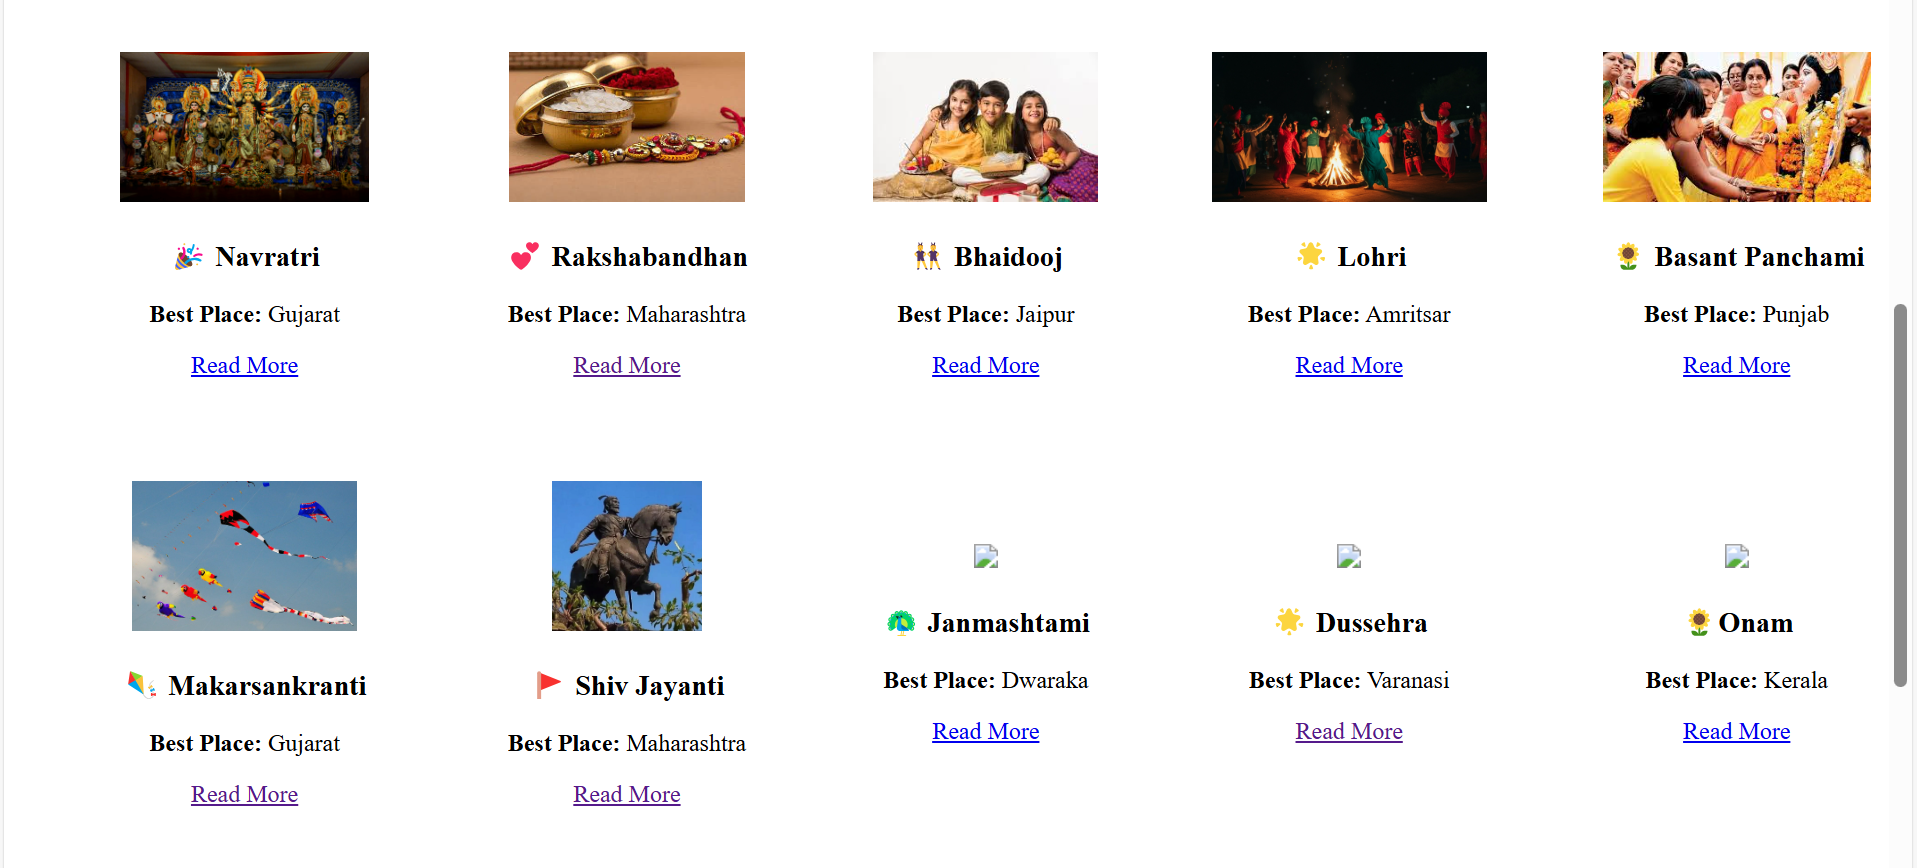
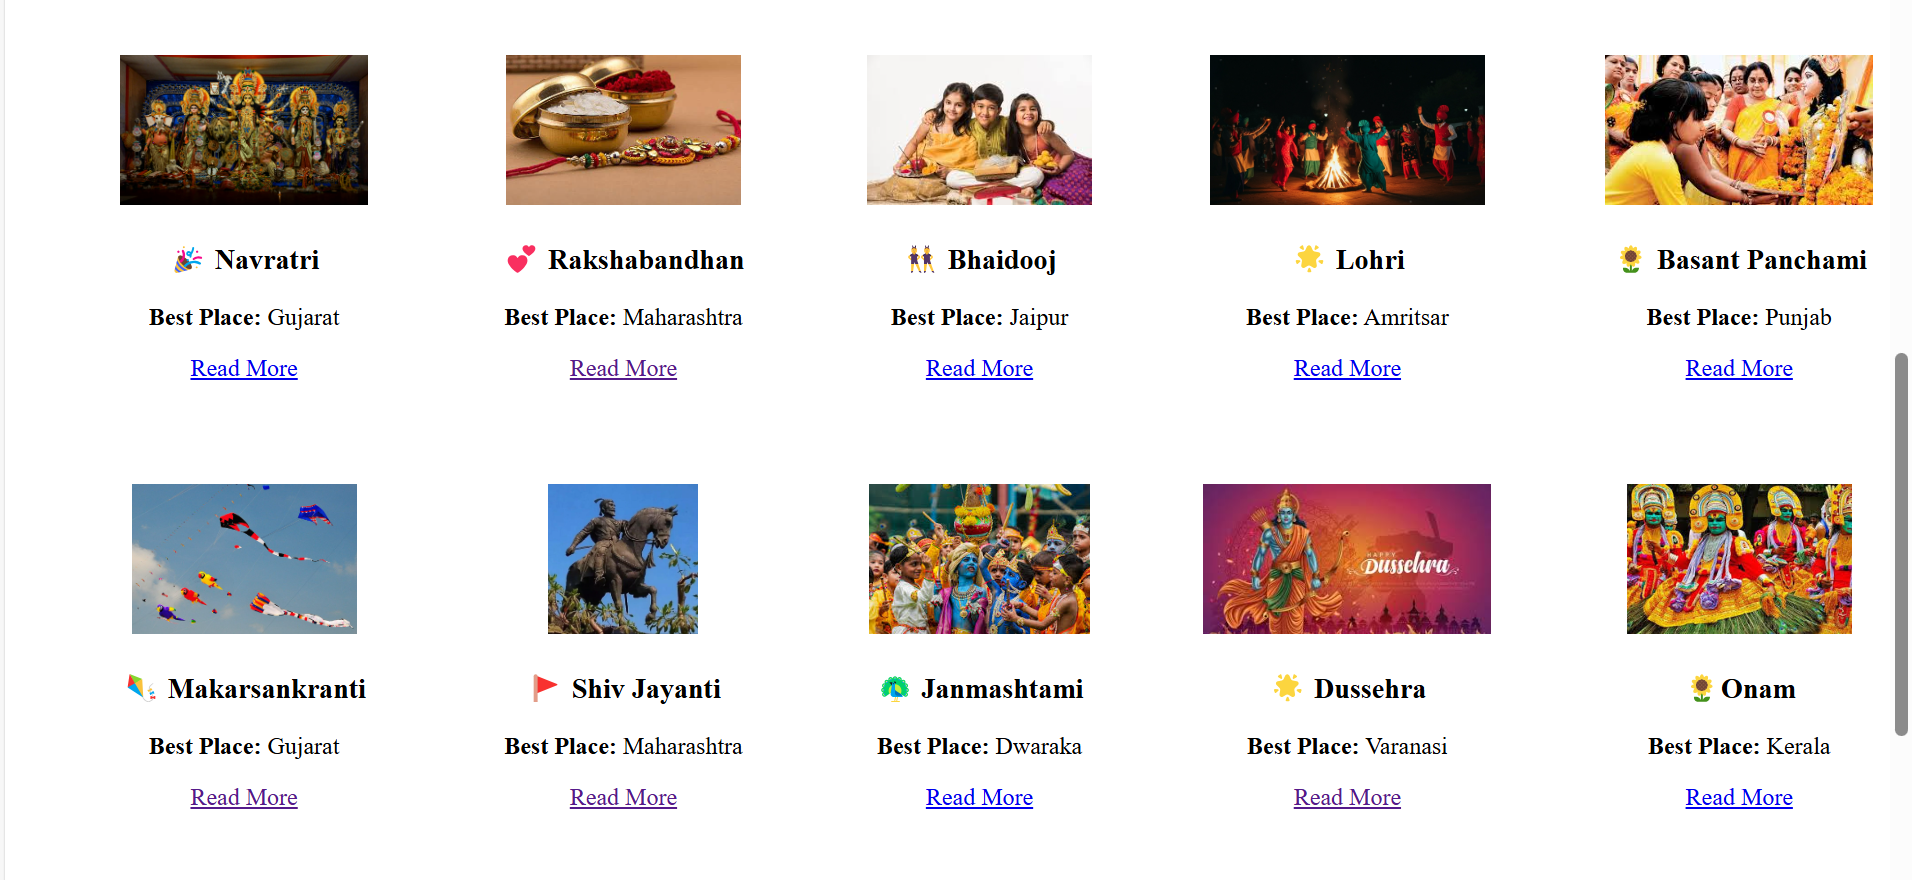
Readme file complete

diff --git a/Readme.md b/Readme.md
@@ -16,9 +16,14 @@ Click here to visit our web:- [IndoFest](https://indofest.netlify.app/)
 ---
 **Festival**
 ---
-![Festival photo](./img/web-1.png)
+![Festival photo](./img/festival-1.png)
 
-![Festival photo](./img/web-1.png)
+![Festival photo](./img/festival-2.png)
+
+![Festival photo](./img/festival-3.png)
+
+---
+---
 
 **Contact**
 ---
